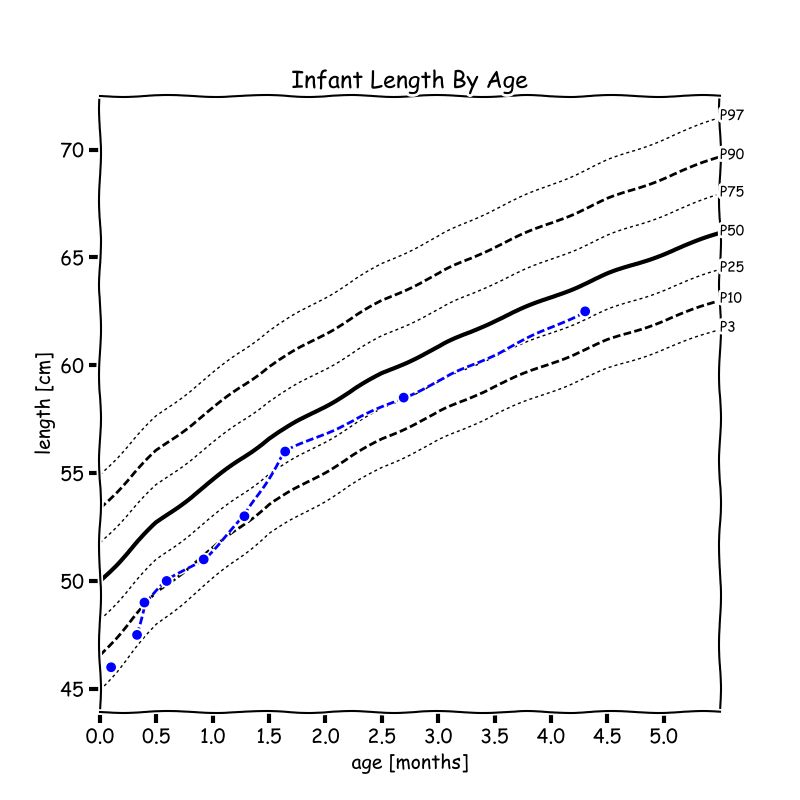
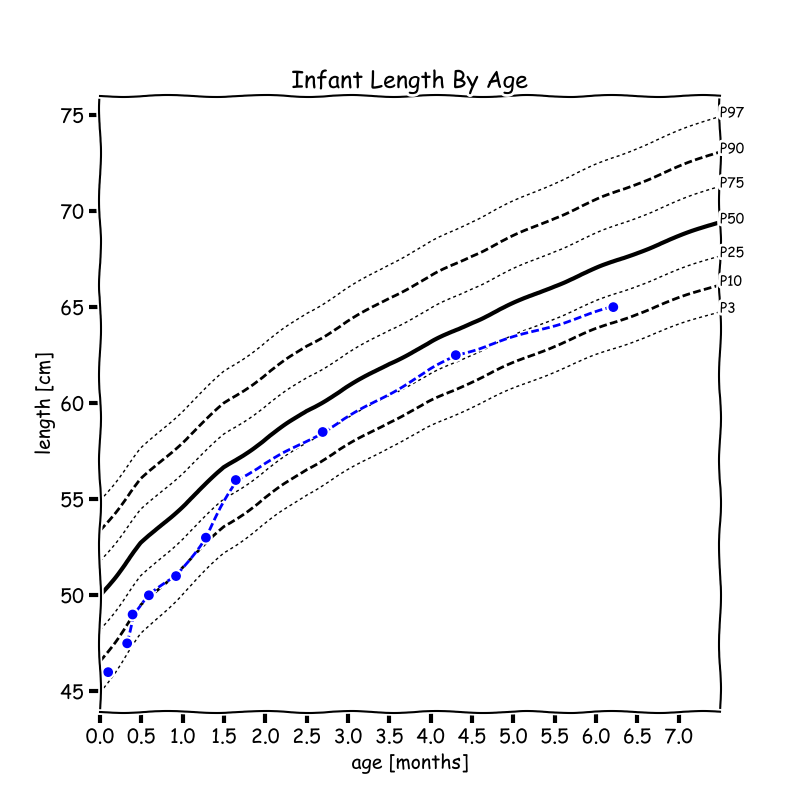
update

diff --git a/growth_charts.py b/growth_charts.py
@@ -20,7 +20,7 @@ for who_dict_key in who_data.who_infant_df_dict.keys():
             x_tick_interval = 3
         else:
             child_data_df = child_data.df
-            x_limit = 5.5
+            x_limit = 7.5
             x_tick_interval = 0.5
         plot_name = who_df_key
         plot = Plot(df=child_data_df,
